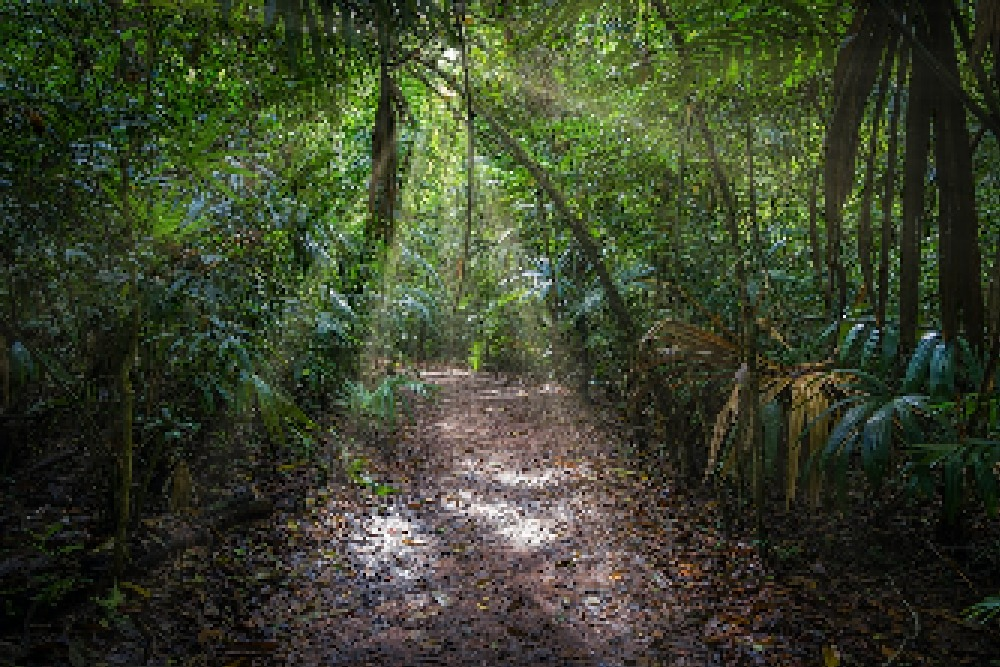
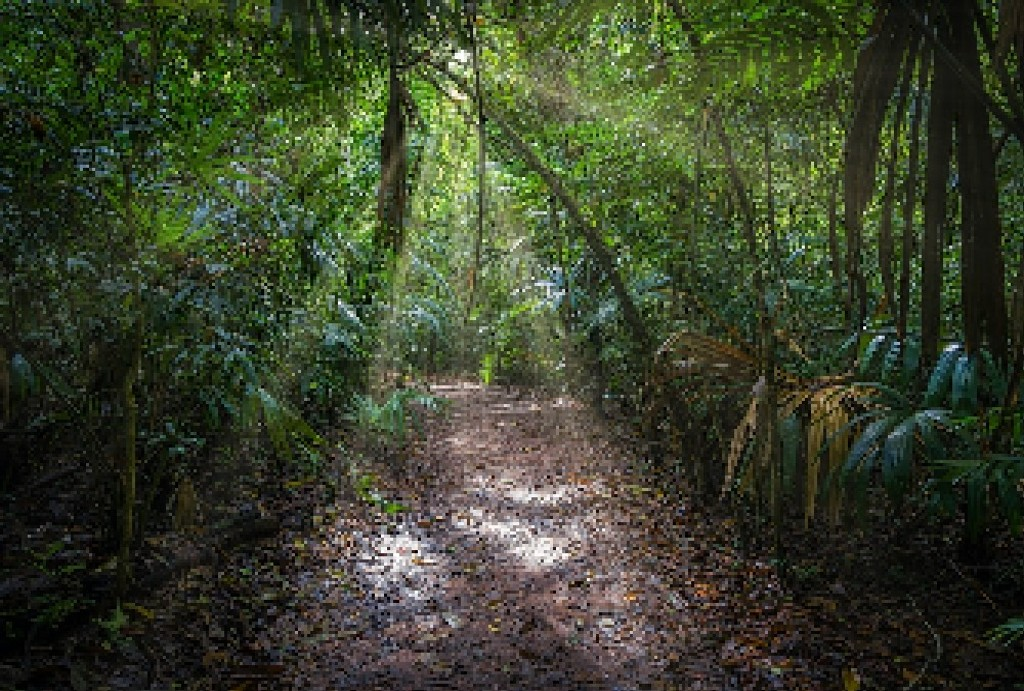
Resized jungle path image, replaced jungle clearing image. AB#1403.

Changed region(s): [[0.434, 0.1199, 0.465, 0.1499], [0.372, 0.7496, 0.403, 0.7796], [0.341, 0.7796, 0.372, 0.8096]]

diff --git a/src/main/java/com/game/templejog/gui/bottom/UseMenu.java b/src/main/java/com/game/templejog/gui/bottom/UseMenu.java
@@ -9,6 +9,9 @@ import javax.swing.*;
 import java.awt.*;
 import java.util.List;
 
+import static com.game.templejog.gui.MainContainer.MAIN_CONTAINER_HEIGHT;
+import static com.game.templejog.gui.MainContainer.MAIN_CONTAINER_WIDTH;
+
 public class UseMenu {
     public static void setUpUseMenu(Game game) {
         JPanel attackMenu = new JPanel();
@@ -25,14 +28,14 @@ public class UseMenu {
         encounterInformation.setEditable(false);
         encounterInformation.setOpaque(true);
         encounterInformation.setBackground(new Color(129,255,217));
-        encounterInformation.setBounds(0, 0, 500, 50);
+        encounterInformation.setBounds(0, 0, MAIN_CONTAINER_WIDTH / 2, MAIN_CONTAINER_HEIGHT / 6);
         // if they player has items in their inventory, open an attack submenu and create a button for each inventory item
         // when the button is pressed, game.processChoice is called
         List<Item> playerInventory = game.getPlayer().getInventory();
         if (playerInventory.size() > 0) {
             JFrame attackSubMenu = new JFrame("Use");
             attackSubMenu.setLayout(new FlowLayout());
-            attackSubMenu.setSize(250, 250);
+            attackSubMenu.setSize(250, 100);
             attackSubMenu.setLocationRelativeTo(null);
             for (Item item : playerInventory) {
                 JButton buttonToAdd = new JButton(item.getName());

diff --git a/src/main/java/com/game/templejog/gui/middle/MiddleSection.java b/src/main/java/com/game/templejog/gui/middle/MiddleSection.java
@@ -10,6 +10,9 @@ import java.awt.*;
 import java.io.IOException;
 import java.util.Objects;
 
+import static com.game.templejog.gui.MainContainer.MAIN_CONTAINER_HEIGHT;
+import static com.game.templejog.gui.MainContainer.MAIN_CONTAINER_WIDTH;
+
 public class MiddleSection {
     private final Game game;
     private JPanel middleSectionPanel, buttonPanel, imagePanel;
@@ -84,7 +87,6 @@ public class MiddleSection {
             bottomRightSectionJPanel.add(new JLabel(roomDescription));
             setUpMiddleSectionJPanel();
             MainContainer.getTopHUD().setUpTopHUDJPanel();
-            MainContainer.getTopHUD().setUpTopHUDJPanel();
         });
         this.animatedEncounterPanel = new AnimatedEncounterPanel();
     }
@@ -109,7 +111,6 @@ public class MiddleSection {
             String encounterKey = game.getCurrentRoom().getEncounters_to().get(0);
             String encounterDescription = game.getEncounters().get(encounterKey).getShortDescription();
             bottomRightSectionJPanel.add(new JLabel(encounterDescription));
-
             String encounterType = game.getEncounters().get(encounterKey).getType();
             if (encounterType.equalsIgnoreCase("enemy")) {
                 currentLocationEncounterIcon = getEncounterIcon();

diff --git a/src/main/java/com/game/templejog/gui/bottom/BottomRightSection.java b/src/main/java/com/game/templejog/gui/bottom/BottomRightSection.java
@@ -11,9 +11,8 @@ public class BottomRightSection {
 
     public BottomRightSection() {
         this.bottomRightSectionJPanel = new JPanel();
-        bottomRightSectionJPanel.setSize(MAIN_CONTAINER_WIDTH / 4, MAIN_CONTAINER_HEIGHT / 6);
-        BoxLayout boxLayout = new BoxLayout(bottomRightSectionJPanel, BoxLayout.Y_AXIS);
-        bottomRightSectionJPanel.setLayout(boxLayout);
+        bottomRightSectionJPanel.setSize(MAIN_CONTAINER_WIDTH / 2, MAIN_CONTAINER_HEIGHT / 6);
+        bottomRightSectionJPanel.setLayout(new BoxLayout(bottomRightSectionJPanel, BoxLayout.Y_AXIS));
         bottomRightSectionJPanel.setBackground(new Color(129,255,217));
     }
     public JPanel getBottomRightSectionJPanel() {

diff --git a/src/main/java/com/game/templejog/gui/bottom/BottomLeftOptions.java b/src/main/java/com/game/templejog/gui/bottom/BottomLeftOptions.java
@@ -23,7 +23,7 @@ public class BottomLeftOptions {
     public BottomLeftOptions(Game game) {
         this.game = game;
         this.bottomLeftOptions = new JPanel();
-        bottomLeftOptions.setSize(MAIN_CONTAINER_WIDTH / 4, MAIN_CONTAINER_HEIGHT / 6);
+        bottomLeftOptions.setBounds(0, 0, MAIN_CONTAINER_WIDTH / 4, MAIN_CONTAINER_HEIGHT / 6);
         bottomLeftOptions.setBackground(new Color(5, 23, 38));
         this.bottomLeftAttackMap = new JPanel();
         bottomLeftAttackMap.setLayout(new BoxLayout(bottomLeftAttackMap, BoxLayout.PAGE_AXIS));

diff --git a/src/main/java/com/game/templejog/gui/TitleScreen.java b/src/main/java/com/game/templejog/gui/TitleScreen.java
@@ -84,7 +84,7 @@ public class TitleScreen {
         settingsButton = new JButton("SETTINGS");
         JFrame difficultyFrame = new JFrame("SETTINGS");
         difficultyFrame.setLayout(new FlowLayout());
-        difficultyFrame.setSize(200, 250);
+        difficultyFrame.setSize(200, 200);
         difficultyFrame.setLocationRelativeTo(null);
         difficultyFrame.setResizable(false);
         difficultyFrame.setDefaultCloseOperation(JFrame.DISPOSE_ON_CLOSE);

diff --git a/src/main/java/com/game/templejog/gui/bottom/SearchMenu.java b/src/main/java/com/game/templejog/gui/bottom/SearchMenu.java
@@ -15,7 +15,7 @@ public class SearchMenu {
         if (itemsInCurrentRoom.size() > 0) {
             JFrame searchSubMenu = new JFrame("Loot");
             searchSubMenu.setLayout(new FlowLayout());
-            searchSubMenu.setSize(250, 250);
+            searchSubMenu.setSize(250, 100);
             searchSubMenu.setLocationRelativeTo(null);
             searchSubMenu.setVisible(true);
             for (String item : itemsInCurrentRoom) {
